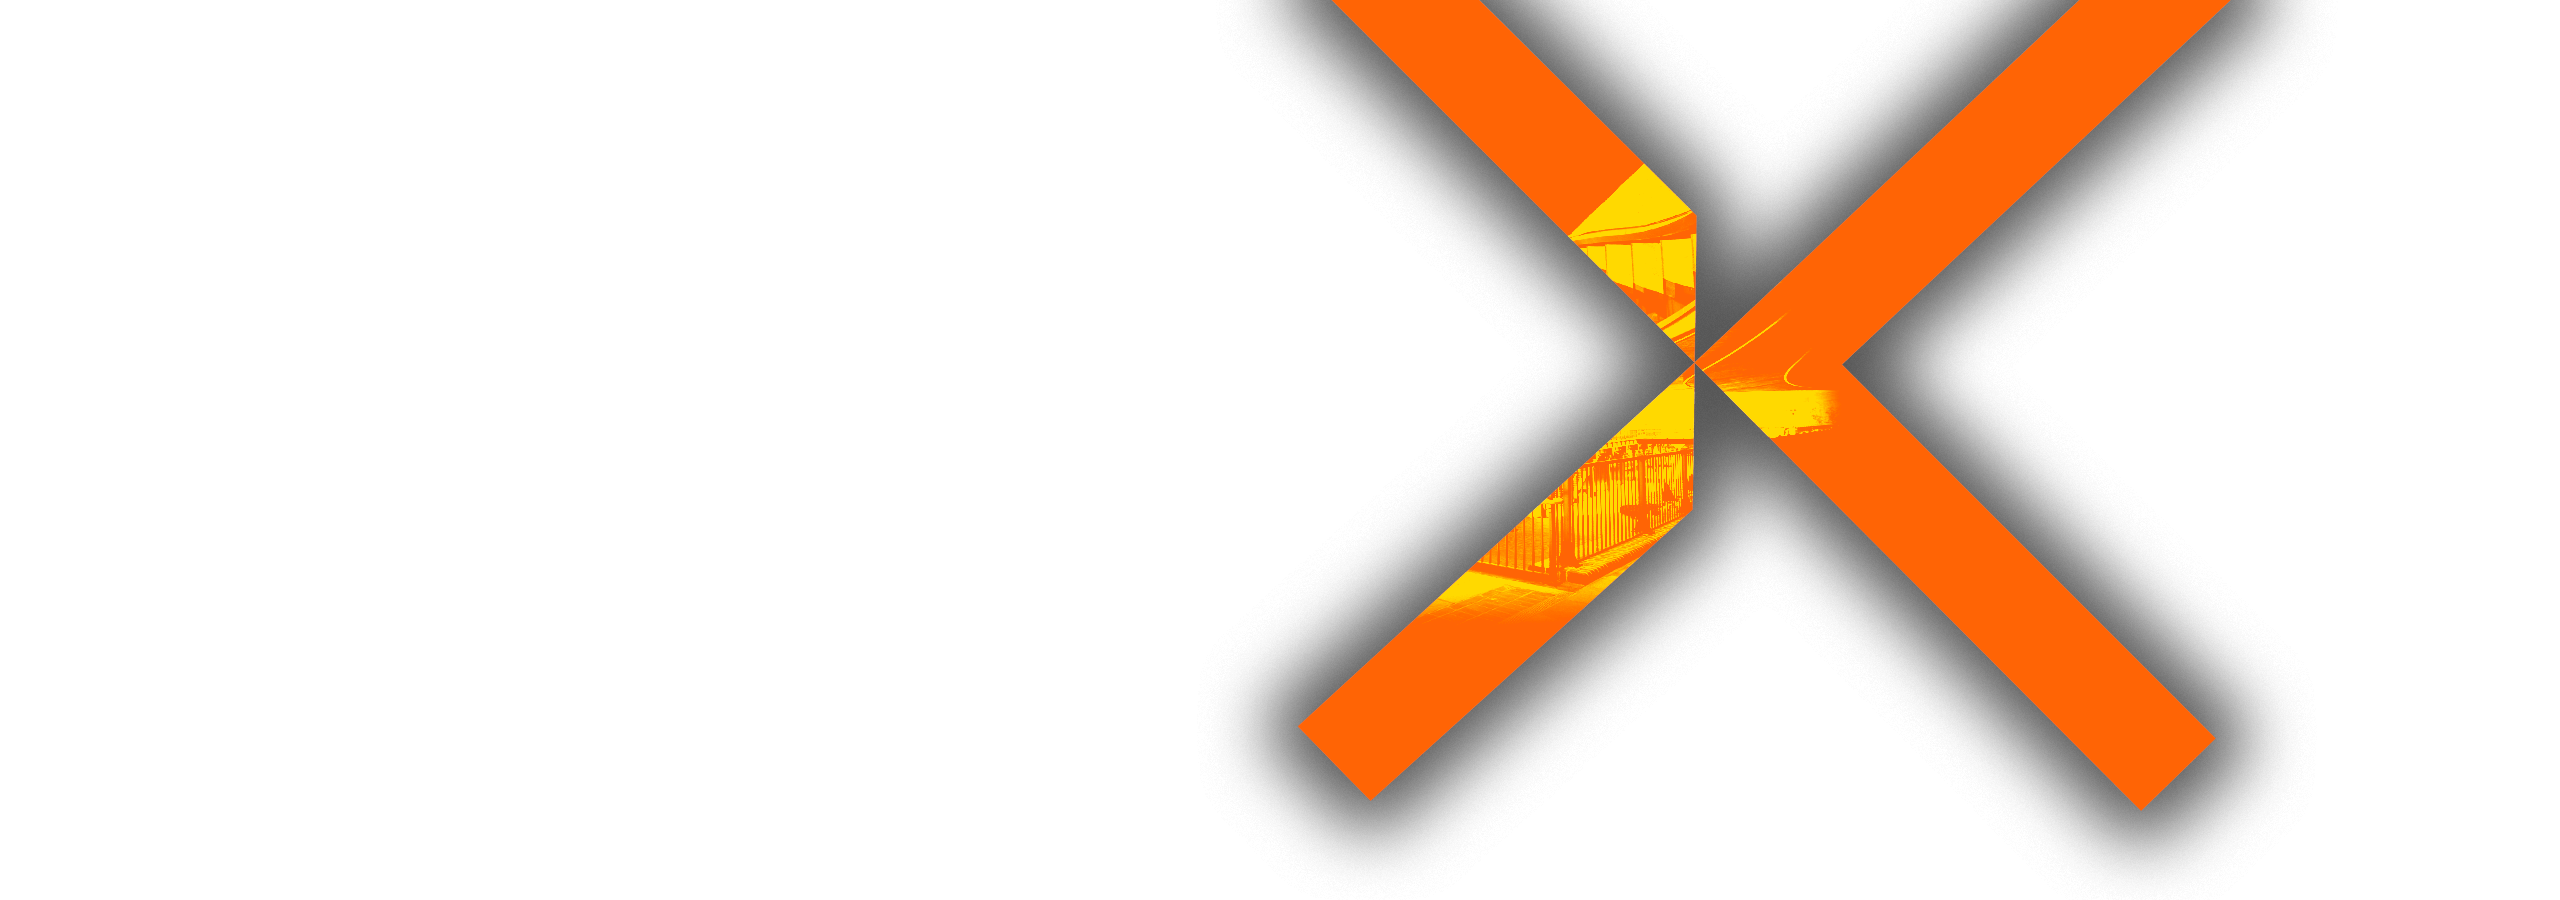
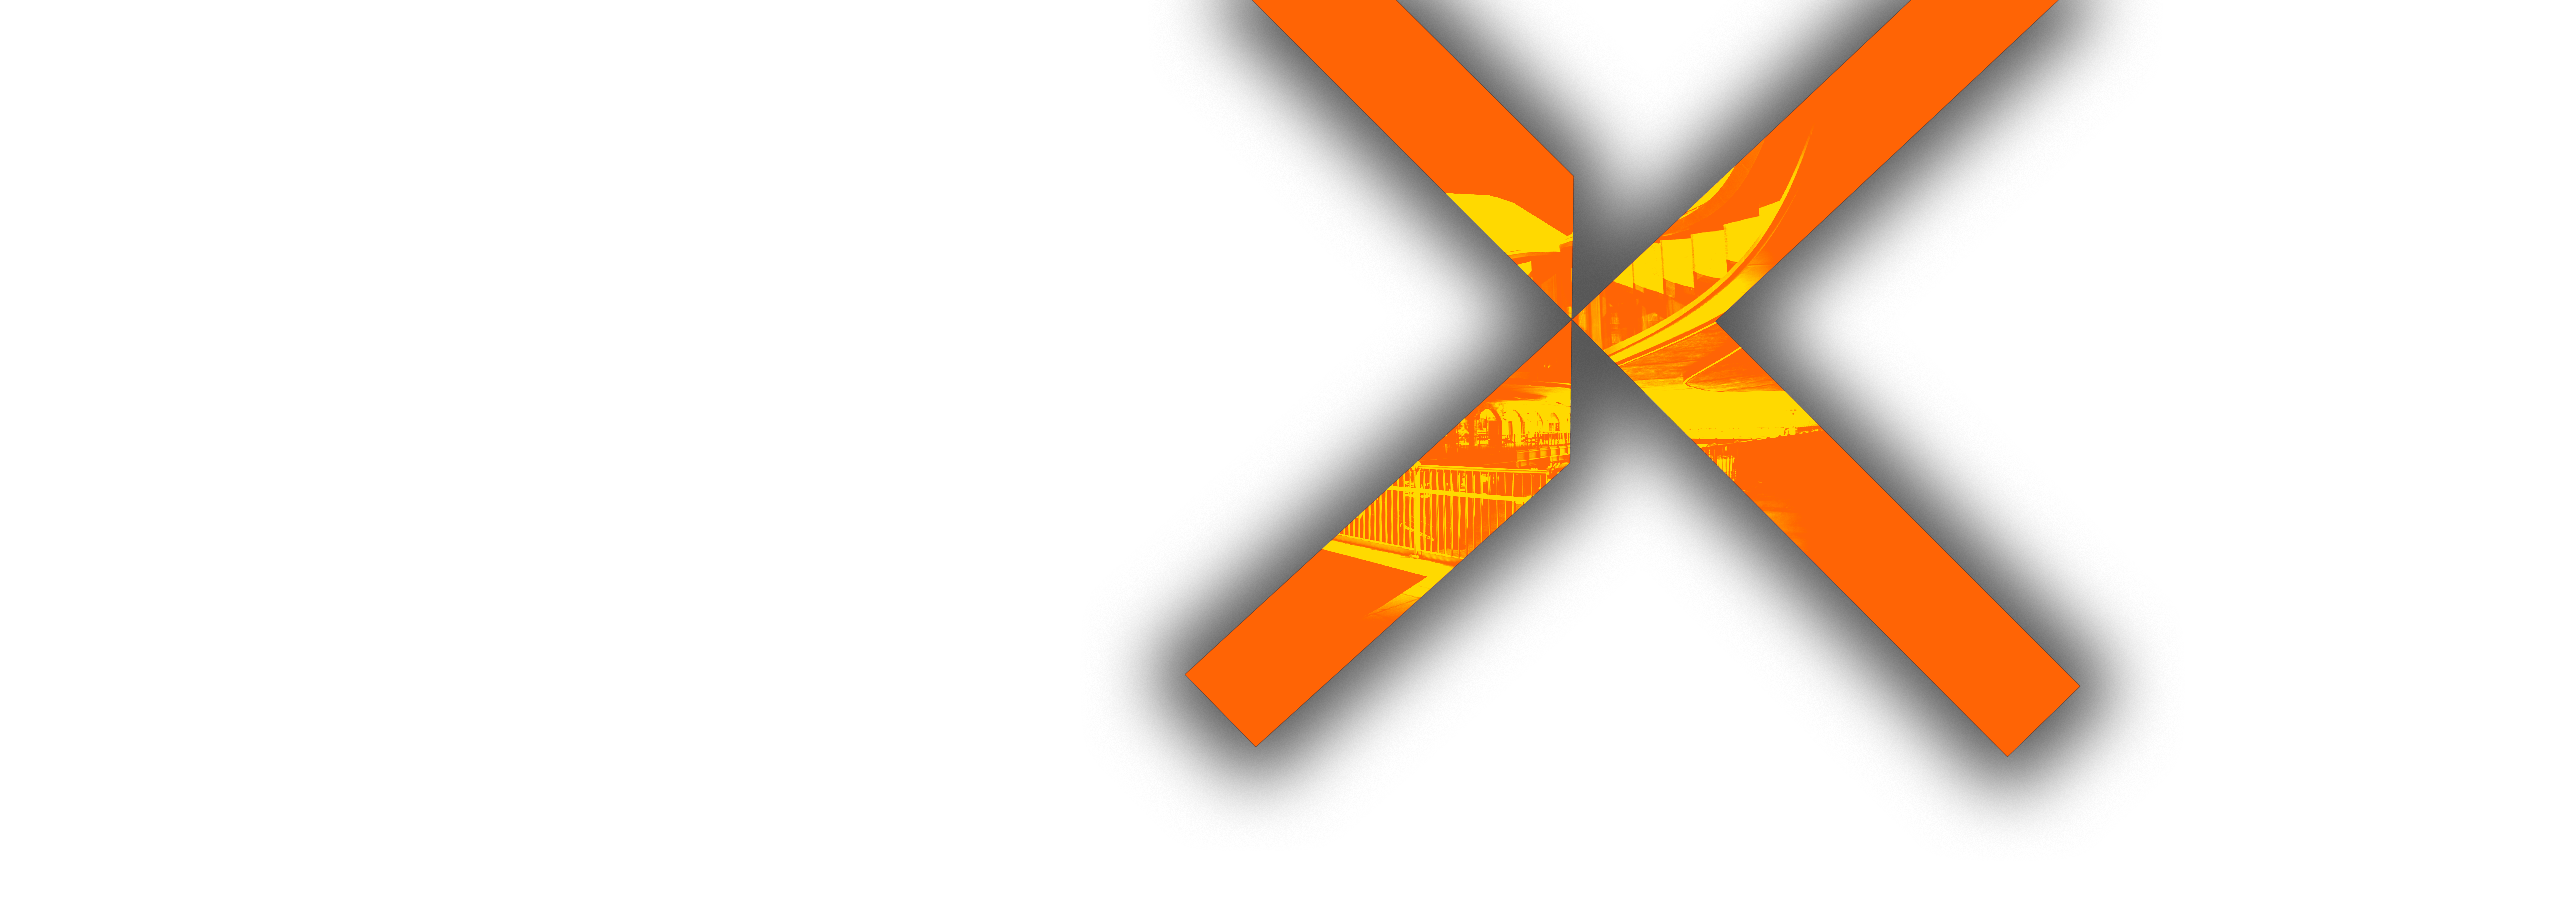
fixes for homepage

Changed region(s): [[0.4375, 0.0, 0.9062, 0.9644]]

diff --git a/src/scss/pages/_home.scss b/src/scss/pages/_home.scss
@@ -5,6 +5,7 @@
     .homepage-kv {
         padding-top: 0!important;
         padding-bottom: 0!important;
+        max-width: unset!important;
         #parallax {
             &__container {
             display: block;
@@ -16,7 +17,6 @@
                 position: absolute;
                 background-position: center !important;
                 background-repeat: no-repeat!important;
-                
                 transform: translateY(0px);
                 height: 65vh;
                 width: 100%;
@@ -26,7 +26,15 @@
               }
               #parallax__orangex {
                   z-index: 9;
+                  animation-delay: 100ms;
               }
+              #parallax__building {
+                animation-delay: 150ms;
+              }
+              #parallax__purplex {
+                  animation-delay: 50ms;
+              }
+
           }
         
         }
@@ -39,6 +47,8 @@
                 align-items: flex-start;
                 flex-direction: column;
                 z-index: 9;
+                opacity: 0;
+                animation-delay: 1s;
                 h2 {
                     font-size: em(80);
                     font-weight: bold;
@@ -72,6 +82,10 @@
         background: #0C0C0C;
         padding-top: 0!important;
         padding-bottom: 0!important;
+        @media screen and (max-width: $mobile) {
+            padding-bottom: 3.90625vw!important;
+        }
+
     
         &__container {
     

diff --git a/src/js/components/loadingScreen.js b/src/js/components/loadingScreen.js
@@ -15,6 +15,7 @@ export default function loadingScreen(element, animation) {
         $('#parallax__building').addClass('animated fadeInRightBig');
         $('#parallax__yellowx').addClass('animated fadeInLeftBig');
         $('#parallax__purplex').addClass('animated fadeInLeftBig');
+        $('.parallax__text').addClass('animated fadeIn');
     $('.loadingScreen').addClass('done');
     setTimeout(function () {
       
@@ -33,9 +34,10 @@ export default function loadingScreen(element, animation) {
         $('#parallax__building').removeClass('animated fadeInRightBig');
         $('#parallax__yellowx').removeClass('animated fadeInLeftBig');
         $('#parallax__purplex').removeClass('animated fadeInLeftBig');
+        $('.parallax__text').removeClass('animated fadeIn');
   
   
-          }, 1000);
+          }, 1500);
         
   }
 

diff --git a/src/pages/index.html b/src/pages/index.html
@@ -12,7 +12,7 @@
 				<div class="section__inner">
 					<div class="copy__container">
 							<p>It’s not a shop. It’s a place you can <span class="copy__hashtag">#DoWhatYouCant</span></p>
-							<button class="button btn btn--primary">DISCOVER MORE</button>
+							<a href="/{{ config.site }}/{{ config.subfolder }}/discover" class="button btn btn--primary">DISCOVER MORE</a>
 					</div>
 				</div>
 			  </section>
